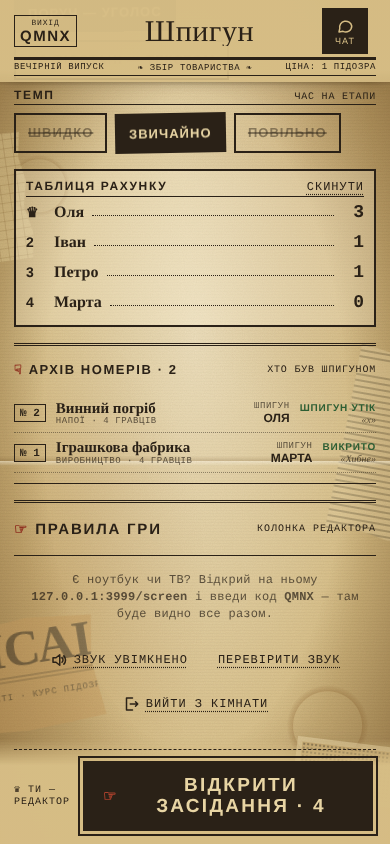
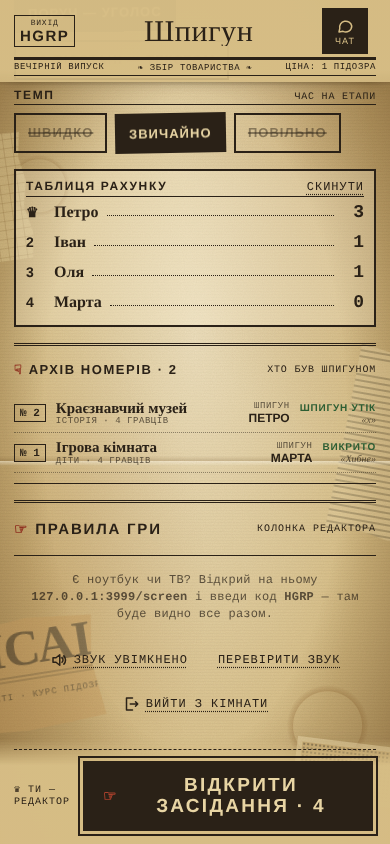
Раунд предметів: нейтральні предмети замість привʼязаних до локації
Claude-Session: https://claude.ai/code/session_018Sb4sXo1bzRDyhzoVq7WtM

diff --git a/server.js b/server.js
@@ -219,14 +219,8 @@ function createRoom(usedInit, code) {
     else if (S.extra === 'scene') toScene();
     else {
       S.phase = 'items';
-      // 12 предметів: 2 від справжньої локації, 7 від інших локацій теми, 3 випадкові —
-      // пов'язані з місцем, але не видають, з яким саме
-      const mine = LOC_ITEMS[S.location] || [];
-      const others = shuffle((THEMES[S.theme] || []).filter(l => l !== S.location).flatMap(l => LOC_ITEMS[l] || []));
-      const seen = new Set(mine.map(x => x[1]));
-      const themed = mine.concat(others.filter(x => !seen.has(x[1]) && (seen.add(x[1]), true)).slice(0, 7));
-      const extra = shuffle(ITEMS.filter(x => !seen.has(x[1]))).slice(0, Math.max(0, 12 - themed.length));
-      S.items = shuffle(themed.concat(extra)).slice(0, 12).map(([e, n]) => ({ e, n, by: null }));
+      // 12 нейтральних предметів, не привʼязаних до локацій: зв'язок треба вигадати, а не «він там часто трапляється»
+      S.items = shuffle(ITEMS).slice(0, 12).map(([e, n]) => ({ e, n, by: null }));
       S.order = shuffle(alive().map(p => p.id)); S.idx = 0;
       startPick();
     }

diff --git a/README.md b/README.md
@@ -19,7 +19,7 @@
 3. **Допит по колу.** Кожен питає наступного гравця (останній — першого), питання й відповідь — уголос, до 2 хвилин.
 4. **Випадковий раунд №2.**
 
-Щогри обираються 2 різні раунди з увімкнених — випадково, але з урахуванням теми (`THEME_FIT` у `data.js`): підходящі раунди випадають частіше, непідходящі рідше або ніколи; раунди минулої партії — рідше. Усе прив'язано до теми, а не до локації, тож шпигуну вибір нічого не підказує. Раунди: **малювання** (~1 хв, пензель, заливка, 13 кольорів); **предмети** (по черзі обираєш предмет — 2 від справжньої локації, 7 від інших локацій теми, 3 випадкові — і до 2 хвилин пояснюєш зв'язок); **сцена** (з 20 наліпок-емодзі ставиш 1–5, крутиш, збільшуєш, домальовуєш); **три емодзі**; **відгук** (коротко про місце + 1–5 зірок, не називаючи його, потім стрічка відгуків з іменами); **аукціон** (100 монет на 6 предметів — 2 справжні від локації й 4 від інших локацій теми; ставки таємні, потім спільна таблиця).
+Щогри обираються 2 різні раунди з увімкнених — випадково, але з урахуванням теми (`THEME_FIT` у `data.js`): підходящі раунди випадають частіше, непідходящі рідше або ніколи; раунди минулої партії — рідше. Усе прив'язано до теми, а не до локації, тож шпигуну вибір нічого не підказує. Раунди: **малювання** (~1 хв, пензель, заливка, 13 кольорів); **предмети** (12 нейтральних предметів, не привʼязаних до локацій: по черзі обираєш один і до 2 хвилин вигадуєш, як він пов'язаний з локацією); **сцена** (з 20 наліпок-емодзі ставиш 1–5, крутиш, збільшуєш, домальовуєш); **три емодзі**; **відгук** (коротко про місце + 1–5 зірок, не називаючи його, потім стрічка відгуків з іменами); **аукціон** (100 монет на 6 предметів — 2 справжні від локації й 4 від інших локацій теми; ставки таємні, потім спільна таблиця).
 
 5. **Голосування.** Найбільше голосів — вибуває. Нічия — переголосування, знову нічия — ніхто не вибуває.
 6. **Шанс шпигуна.** Після кожного голосування (навіть якщо його вигнали) шпигун має 30 секунд, щоб написати локацію. Мирні чесно вирішують, чи зарахувати. Вгадав — переміг, помилився — програв.
